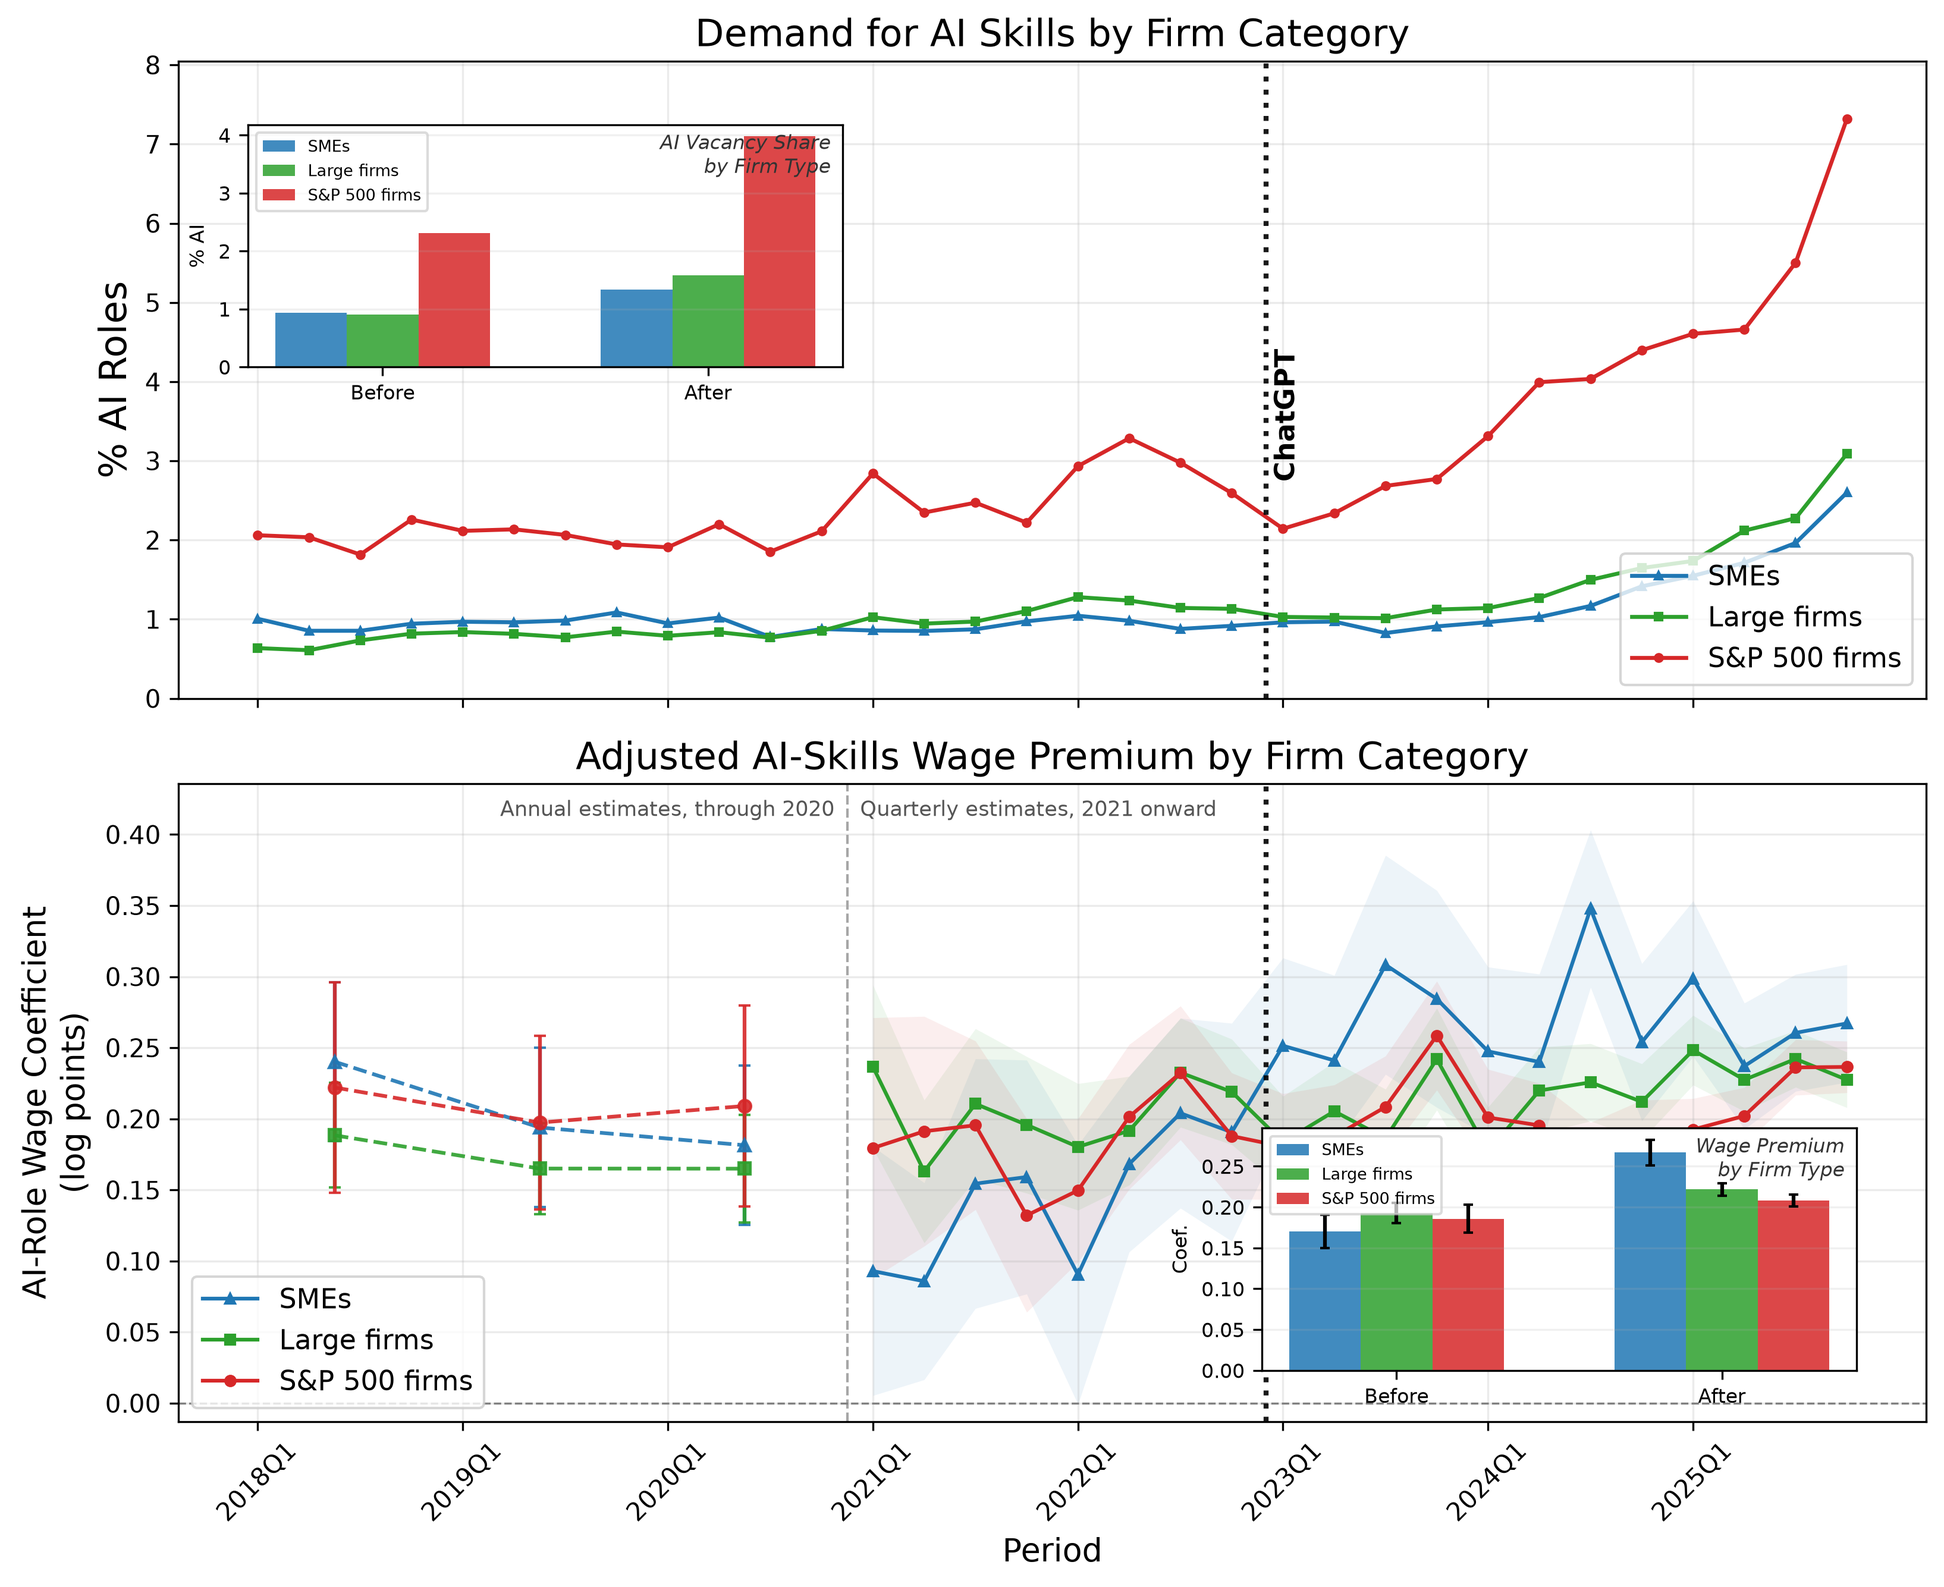
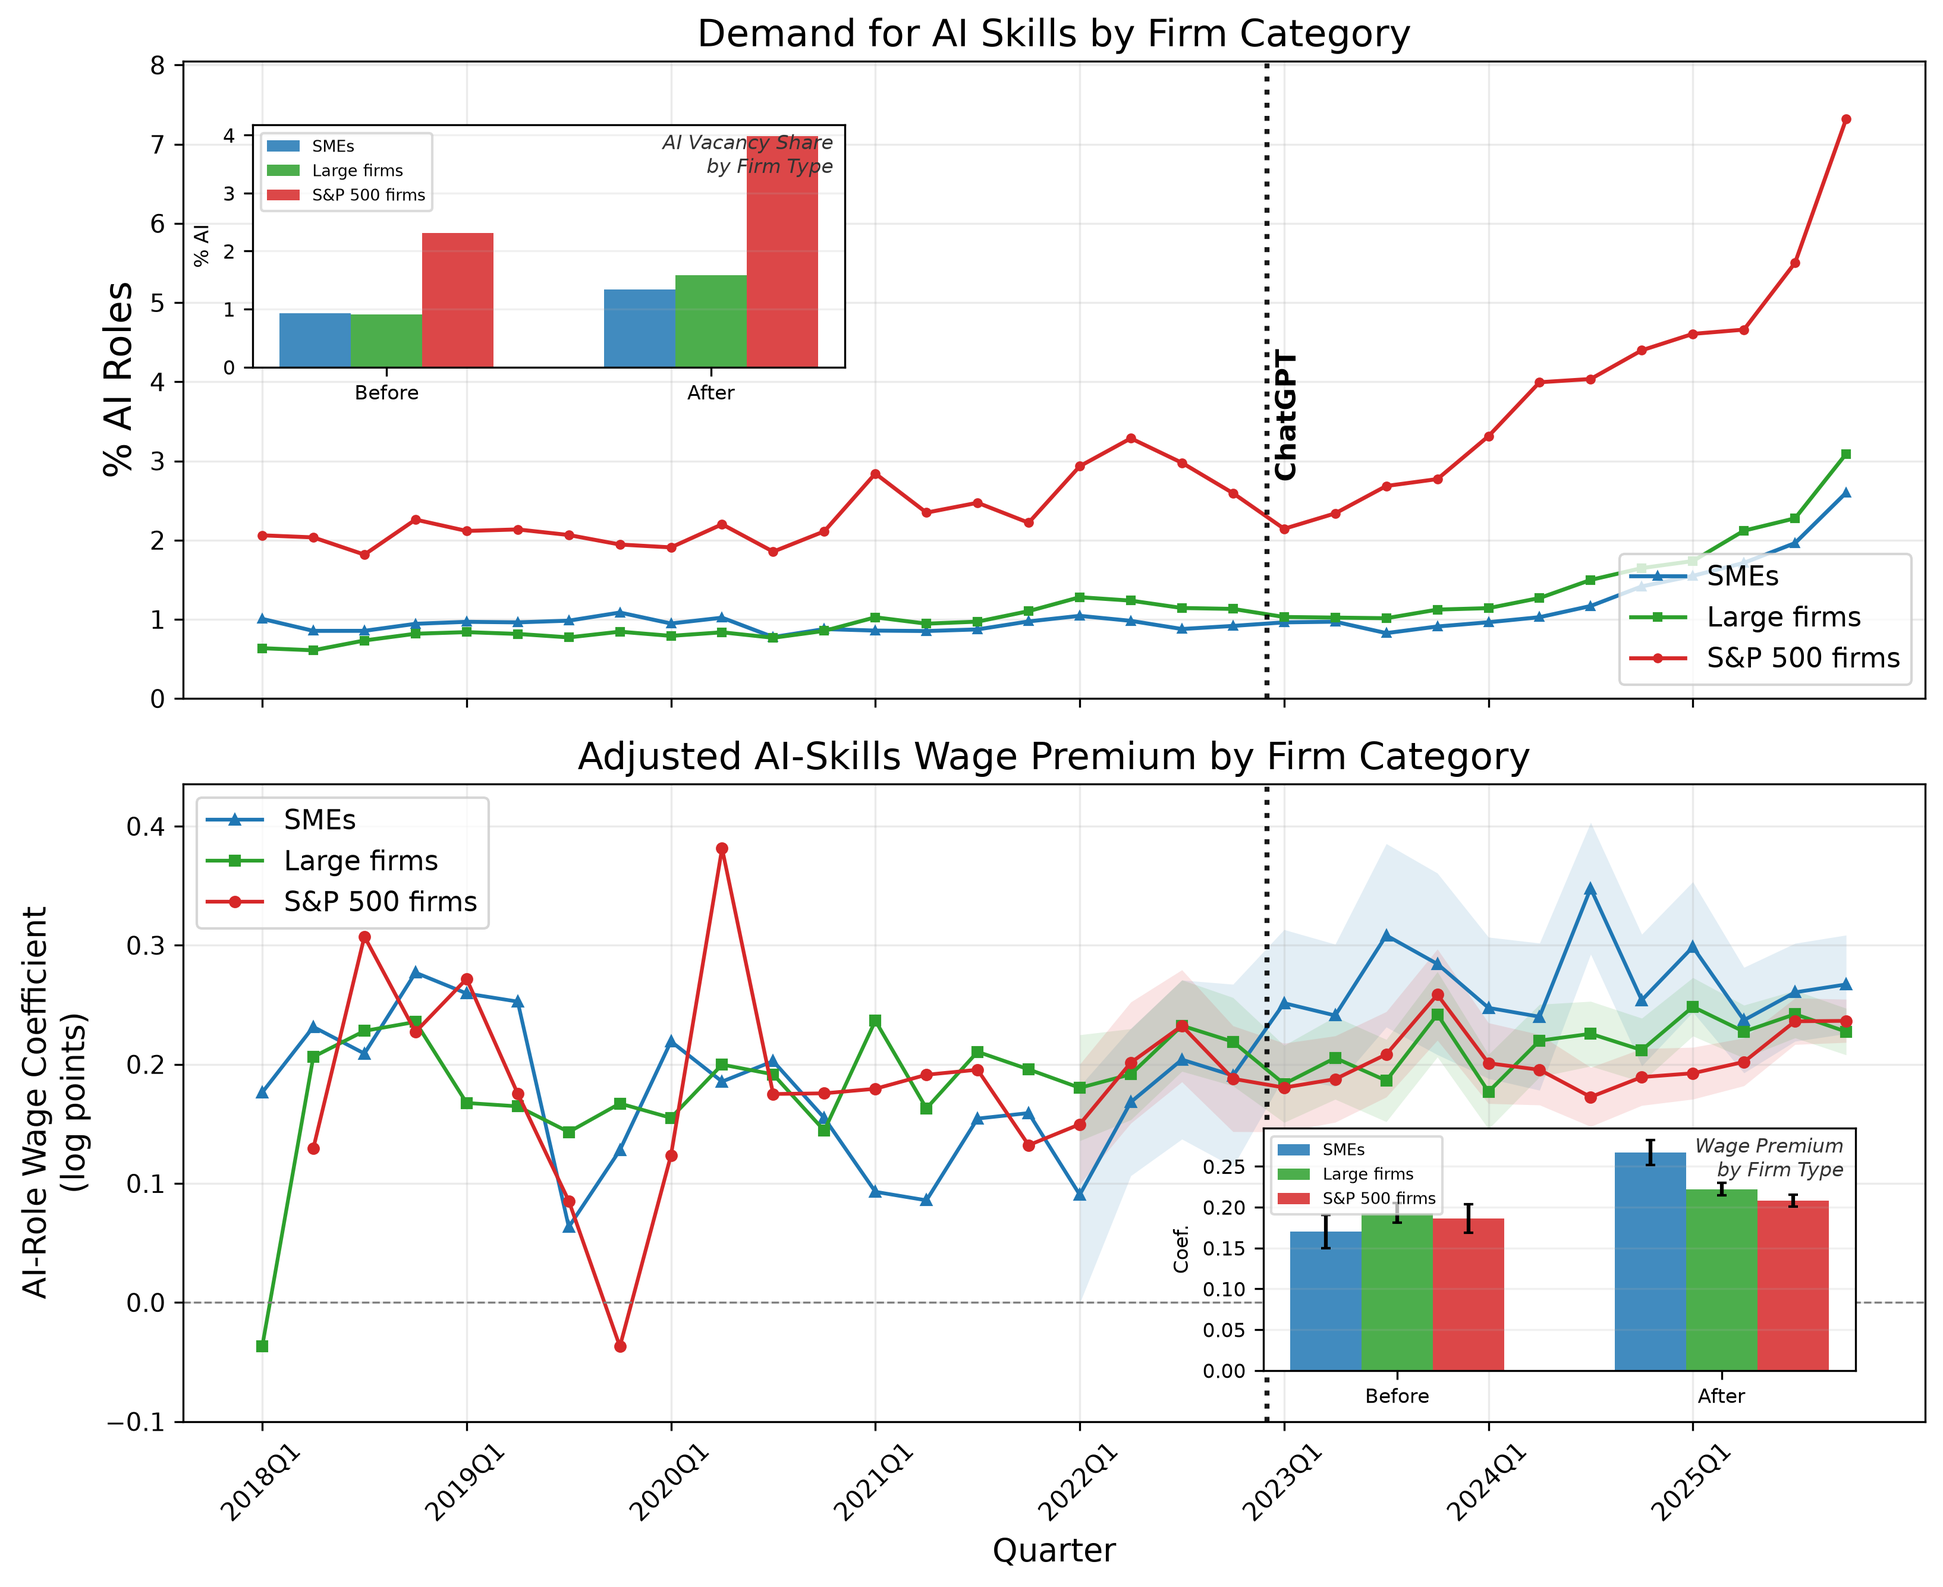
Preserve both Figure 1 frequency variants
Keep the all-quarterly firm-category figure at its existing filename and write the annual-through-2020/quarterly-from-2021 comparison to a separate mixed-frequency PNG.

Update both the full descriptive workflow and cached-table plotting script to regenerate the two alternatives from the same estimates, and document both outputs for manuscript review.

diff --git a/analysis/descriptive_analysis.py b/analysis/descriptive_analysis.py
@@ -23,7 +23,9 @@ sys.path.append(str(Path(__file__).parent.parent / "src"))
 from package_files.config_utils import get_processed_dir, get_repo_root
 from package_files.firm_size import FIRM_SIZE_CUTOFF
 from package_files.firm_category_figure import (
+    draw_quarterly_wage_series,
     draw_mixed_wage_series,
+    set_quarterly_wage_ylim,
     set_zero_inclusive_wage_ylim,
 )
 
@@ -1085,69 +1087,94 @@ def generate_ai_roles_over_time_by_firm_category_plot(usdf, annual_wage_betas=No
         index=False,
     )
 
-    fig, (demand_ax, wage_ax) = plt.subplots(
-        nrows=2,
-        ncols=1,
-        figsize=(11, 9),
-        sharex=True,
-    )
     quarter_positions = np.arange(len(demand_wide.index))
     quarter_position_map = {quarter: idx for idx, quarter in enumerate(demand_wide.index)}
-
-    for category in FIRM_CATEGORY_ORDER:
-        if category not in demand_wide:
-            continue
-        demand_ax.plot(
-            quarter_positions,
-            demand_wide[category],
-            marker=FIRM_CATEGORY_MARKERS[category],
-            markersize=3,
-            linewidth=1.6,
-            label=category,
-            color=FIRM_CATEGORY_COLORS[category],
-        )
-
-    demand_ax.set_ylabel("% AI Roles", fontsize=15)
-    demand_ax.set_title("Demand for AI Skills by Firm Category", fontsize=15)
-    add_genai_quarter_line(demand_ax, demand_wide.index)
-    set_zero_based_ylim(demand_ax, demand_wide.stack())
-    demand_ax.legend(title=None, fontsize=11, loc="lower right")
-    demand_ax.grid(alpha=0.25)
-    add_firm_category_demand_inset(demand_ax, category_df)
-
     if annual_wage_betas is None:
         annual_wage_betas = estimate_annual_ai_wage_premium_by_firm_category(
             category_df
         )
-    annual_plotted, quarterly_plotted = draw_mixed_wage_series(
-        wage_ax,
-        annual_wage_betas,
-        wage_betas,
-        quarter_position_map,
-        FIRM_CATEGORY_ORDER,
-        FIRM_CATEGORY_COLORS,
-        FIRM_CATEGORY_MARKERS,
-    )
 
-    wage_ax.axhline(0, color="gray", linewidth=0.8, linestyle="--")
-    add_genai_quarter_line(wage_ax, demand_wide.index)
-    set_zero_inclusive_wage_ylim(wage_ax, annual_plotted, quarterly_plotted)
-    wage_ax.set_ylabel("AI-Role Wage Coefficient\n(log points)", fontsize=13)
-    wage_ax.set_title("Adjusted AI-Skills Wage Premium by Firm Category", fontsize=15)
-    wage_ax.grid(alpha=0.25)
-    wage_ax.legend(title=None, fontsize=11, loc="lower left")
-    add_firm_category_wage_inset(wage_ax, category_df)
+    for mixed_frequency in (False, True):
+        fig, (demand_ax, wage_ax) = plt.subplots(
+            nrows=2,
+            ncols=1,
+            figsize=(11, 9),
+            sharex=True,
+        )
+        for category in FIRM_CATEGORY_ORDER:
+            if category not in demand_wide:
+                continue
+            demand_ax.plot(
+                quarter_positions,
+                demand_wide[category],
+                marker=FIRM_CATEGORY_MARKERS[category],
+                markersize=3,
+                linewidth=1.6,
+                label=category,
+                color=FIRM_CATEGORY_COLORS[category],
+            )
 
-    tick_positions = list(range(0, len(demand_wide.index), 4))
-    wage_ax.set_xticks(tick_positions)
-    wage_ax.set_xticklabels([str(demand_wide.index[idx]) for idx in tick_positions], rotation=45)
-    wage_ax.set_xlabel("Period", fontsize=13)
+        demand_ax.set_ylabel("% AI Roles", fontsize=15)
+        demand_ax.set_title("Demand for AI Skills by Firm Category", fontsize=15)
+        add_genai_quarter_line(demand_ax, demand_wide.index)
+        set_zero_based_ylim(demand_ax, demand_wide.stack())
+        demand_ax.legend(title=None, fontsize=11, loc="lower right")
+        demand_ax.grid(alpha=0.25)
+        add_firm_category_demand_inset(demand_ax, category_df)
 
-    plt.tight_layout()
-    output_path = FIRM_CATEGORY_DIR / "figure1_ai_demand_wage_beta_by_firm_category.png"
-    plt.savefig(output_path, bbox_inches="tight", dpi=300)
-    plt.close()
-    print(f"Saved: {output_path}")
+        if mixed_frequency:
+            annual_plotted, quarterly_plotted = draw_mixed_wage_series(
+                wage_ax,
+                annual_wage_betas,
+                wage_betas,
+                quarter_position_map,
+                FIRM_CATEGORY_ORDER,
+                FIRM_CATEGORY_COLORS,
+                FIRM_CATEGORY_MARKERS,
+            )
+            set_zero_inclusive_wage_ylim(
+                wage_ax,
+                annual_plotted,
+                quarterly_plotted,
+            )
+            wage_ax.legend(title=None, fontsize=11, loc="lower left")
+            wage_ax.set_xlabel("Period", fontsize=13)
+            output_name = (
+                "figure1_ai_demand_wage_beta_by_firm_category_mixed_frequency.png"
+            )
+        else:
+            quarterly_plotted = draw_quarterly_wage_series(
+                wage_ax,
+                wage_betas,
+                quarter_position_map,
+                FIRM_CATEGORY_ORDER,
+                FIRM_CATEGORY_COLORS,
+                FIRM_CATEGORY_MARKERS,
+            )
+            set_quarterly_wage_ylim(wage_ax, quarterly_plotted)
+            wage_ax.legend(title=None, fontsize=11, loc="upper left")
+            wage_ax.set_xlabel("Quarter", fontsize=13)
+            output_name = "figure1_ai_demand_wage_beta_by_firm_category.png"
+
+        wage_ax.axhline(0, color="gray", linewidth=0.8, linestyle="--")
+        add_genai_quarter_line(wage_ax, demand_wide.index)
+        wage_ax.set_ylabel("AI-Role Wage Coefficient\n(log points)", fontsize=13)
+        wage_ax.set_title("Adjusted AI-Skills Wage Premium by Firm Category", fontsize=15)
+        wage_ax.grid(alpha=0.25)
+        add_firm_category_wage_inset(wage_ax, category_df)
+
+        tick_positions = list(range(0, len(demand_wide.index), 4))
+        wage_ax.set_xticks(tick_positions)
+        wage_ax.set_xticklabels(
+            [str(demand_wide.index[idx]) for idx in tick_positions],
+            rotation=45,
+        )
+
+        plt.tight_layout()
+        output_path = FIRM_CATEGORY_DIR / output_name
+        plt.savefig(output_path, bbox_inches="tight", dpi=300)
+        plt.close()
+        print(f"Saved: {output_path}")
 
 
 def count_benefits(data, benefit, period):

diff --git a/scripts/plot_firm_category_figure1.py b/scripts/plot_firm_category_figure1.py
@@ -23,7 +23,9 @@ sys.path.append(str(Path(__file__).parent.parent / "src"))
 from package_files.config_utils import get_processed_dir, get_repo_root
 from package_files.firm_size import FIRM_SIZE_CUTOFF
 from package_files.firm_category_figure import (
+    draw_quarterly_wage_series,
     draw_mixed_wage_series,
+    set_quarterly_wage_ylim,
     set_zero_inclusive_wage_ylim,
 )
 
@@ -275,25 +277,8 @@ def load_demand_wide():
     )
 
 
-def main():
-    # --- Load pre-computed descriptive tables ---
-    demand_wide = load_demand_wide()
-
-    # --- Load pre-computed wage betas ---
-    betas_path = TABLES_DIR / "quarterly_ai_wage_betas_by_firm_category.csv"
-    if not betas_path.exists():
-        raise FileNotFoundError(f"Wage betas CSV not found: {betas_path}")
-    wage_betas = pd.read_csv(betas_path)
-    wage_betas["QUARTER"] = wage_betas["QUARTER"].apply(lambda x: pd.Period(x, freq="Q"))
-    print(f"Loaded {len(wage_betas)} wage beta rows from {betas_path}")
-
-    annual_path = TABLES_DIR / "annual_ai_wage_premium_by_firm_category.csv"
-    if not annual_path.exists():
-        raise FileNotFoundError(f"Annual wage betas CSV not found: {annual_path}")
-    annual_betas = pd.read_csv(annual_path)
-    print(f"Loaded {len(annual_betas)} annual wage beta rows from {annual_path}")
-
-    # --- Plot ---
+def render_figure(demand_wide, wage_betas, annual_betas, mixed_frequency):
+    """Render either the original quarterly or comparison mixed-frequency figure."""
     fig, (demand_ax, wage_ax) = plt.subplots(nrows=2, ncols=1, figsize=(11, 9), sharex=True)
     quarter_positions = np.arange(len(demand_wide.index))
     quarter_position_map = {q: i for i, q in enumerate(demand_wide.index)}
@@ -319,36 +304,71 @@ def main():
     demand_ax.grid(alpha=0.25)
     add_demand_inset(demand_ax, demand_wide)
 
-    annual_plotted, quarterly_plotted = draw_mixed_wage_series(
-        wage_ax,
-        annual_betas,
-        wage_betas,
-        quarter_position_map,
-        FIRM_CATEGORY_ORDER,
-        FIRM_CATEGORY_COLORS,
-        FIRM_CATEGORY_MARKERS,
-    )
+    if mixed_frequency:
+        annual_plotted, quarterly_plotted = draw_mixed_wage_series(
+            wage_ax,
+            annual_betas,
+            wage_betas,
+            quarter_position_map,
+            FIRM_CATEGORY_ORDER,
+            FIRM_CATEGORY_COLORS,
+            FIRM_CATEGORY_MARKERS,
+        )
+        set_zero_inclusive_wage_ylim(wage_ax, annual_plotted, quarterly_plotted)
+        wage_ax.legend(title=None, fontsize=11, loc="lower left")
+        wage_ax.set_xlabel("Period", fontsize=13)
+        output_name = "figure1_ai_demand_wage_beta_by_firm_category_mixed_frequency.png"
+    else:
+        quarterly_plotted = draw_quarterly_wage_series(
+            wage_ax,
+            wage_betas,
+            quarter_position_map,
+            FIRM_CATEGORY_ORDER,
+            FIRM_CATEGORY_COLORS,
+            FIRM_CATEGORY_MARKERS,
+        )
+        set_quarterly_wage_ylim(wage_ax, quarterly_plotted)
+        wage_ax.legend(title=None, fontsize=11, loc="upper left")
+        wage_ax.set_xlabel("Quarter", fontsize=13)
+        output_name = "figure1_ai_demand_wage_beta_by_firm_category.png"
 
     wage_ax.axhline(0, color="gray", linewidth=0.8, linestyle="--")
     add_chatgpt_quarter_line(wage_ax, demand_wide.index)
-    set_zero_inclusive_wage_ylim(wage_ax, annual_plotted, quarterly_plotted)
     wage_ax.set_ylabel("AI-Role Wage Coefficient\n(log points)", fontsize=13)
     wage_ax.set_title("Adjusted AI-Skills Wage Premium by Firm Category", fontsize=15)
     wage_ax.grid(alpha=0.25)
-    wage_ax.legend(title=None, fontsize=11, loc="lower left")
     add_wage_inset(wage_ax, wage_betas)
 
     tick_positions = list(range(0, len(demand_wide.index), 4))
     wage_ax.set_xticks(tick_positions)
     wage_ax.set_xticklabels([str(demand_wide.index[i]) for i in tick_positions], rotation=45)
-    wage_ax.set_xlabel("Period", fontsize=13)
 
     plt.tight_layout()
     FIG_DIR.mkdir(parents=True, exist_ok=True)
-    output_path = FIG_DIR / "figure1_ai_demand_wage_beta_by_firm_category.png"
+    output_path = FIG_DIR / output_name
     plt.savefig(output_path, bbox_inches="tight", dpi=300)
     plt.close()
     print(f"Saved: {output_path}")
+
+
+def main():
+    demand_wide = load_demand_wide()
+
+    betas_path = TABLES_DIR / "quarterly_ai_wage_betas_by_firm_category.csv"
+    if not betas_path.exists():
+        raise FileNotFoundError(f"Wage betas CSV not found: {betas_path}")
+    wage_betas = pd.read_csv(betas_path)
+    wage_betas["QUARTER"] = wage_betas["QUARTER"].apply(lambda x: pd.Period(x, freq="Q"))
+    print(f"Loaded {len(wage_betas)} wage beta rows from {betas_path}")
+
+    annual_path = TABLES_DIR / "annual_ai_wage_premium_by_firm_category.csv"
+    if not annual_path.exists():
+        raise FileNotFoundError(f"Annual wage betas CSV not found: {annual_path}")
+    annual_betas = pd.read_csv(annual_path)
+    print(f"Loaded {len(annual_betas)} annual wage beta rows from {annual_path}")
+
+    render_figure(demand_wide, wage_betas, annual_betas, mixed_frequency=False)
+    render_figure(demand_wide, wage_betas, annual_betas, mixed_frequency=True)
 
 
 if __name__ == "__main__":

diff --git a/src/package_files/firm_category_figure.py b/src/package_files/firm_category_figure.py
@@ -8,6 +8,54 @@ ANNUAL_WAGE_END_YEAR = 2020
 QUARTERLY_WAGE_START_YEAR = 2021
 
 
+def draw_quarterly_wage_series(
+    ax,
+    quarterly_betas,
+    quarter_position_map,
+    categories,
+    colors,
+    markers,
+    confidence_bands_from="2022Q1",
+):
+    """Draw the original all-quarterly wage series."""
+    quarterly = quarterly_betas.copy()
+    if not isinstance(quarterly["QUARTER"].dtype, pd.PeriodDtype):
+        quarterly["QUARTER"] = quarterly["QUARTER"].map(
+            lambda value: pd.Period(value, freq="Q")
+        )
+    if "status" in quarterly.columns:
+        quarterly = quarterly[quarterly["status"] == "ok"].copy()
+    quarterly["x"] = quarterly["QUARTER"].map(quarter_position_map)
+    quarterly = quarterly.dropna(subset=["x"])
+    band_start = pd.Period(confidence_bands_from, freq="Q")
+
+    for category in categories:
+        line = quarterly[quarterly["FIRM_CATEGORY"] == category].sort_values(
+            "QUARTER"
+        )
+        if line.empty:
+            continue
+        band = line[line["QUARTER"] >= band_start]
+        ax.fill_between(
+            band["x"],
+            band["lower_ci"],
+            band["upper_ci"],
+            color=colors[category],
+            alpha=0.12,
+            linewidth=0,
+        )
+        ax.plot(
+            line["x"],
+            line["ai_role_beta"],
+            marker=markers[category],
+            markersize=4,
+            linewidth=1.5,
+            color=colors[category],
+            label=category,
+        )
+    return quarterly
+
+
 def prepare_mixed_wage_series(annual_betas, quarterly_betas, quarter_position_map):
     """Return annual pre-2021 and quarterly post-2020 estimates on one x-axis."""
     annual = annual_betas.copy()
@@ -160,3 +208,18 @@ def set_zero_inclusive_wage_ylim(ax, annual, quarterly, lower_pad=0.03, upper_pa
     upper = max(0.0, float(values.max()))
     span = max(upper - lower, 0.02)
     ax.set_ylim(lower - lower_pad * span, upper + upper_pad * span)
+
+
+def set_quarterly_wage_ylim(ax, quarterly, confidence_bands_from="2022Q1"):
+    """Reproduce the original quarterly coefficient scale."""
+    band_start = pd.Period(confidence_bands_from, freq="Q")
+    band = quarterly[quarterly["QUARTER"] >= band_start]
+    values = pd.concat(
+        [quarterly["ai_role_beta"], band["lower_ci"], band["upper_ci"]],
+        ignore_index=True,
+    ).dropna()
+    if values.empty:
+        return
+    limit = max(float(values.abs().max()) * 1.08, 0.02)
+    ax.set_ylim(-limit, limit)
+    ax.set_ylim(bottom=-0.1)

diff --git a/README.md b/README.md
@@ -367,7 +367,8 @@ Additional reproducibility tooling:
 - **Firm-category through-2022/post-2022 H1 logit plot**: `results/figures_2026/regression/firm_category_period_ai_role_logit_coefficients.png`
 - **Structured-benefit coefficients plot**: `results/figures_2026/regression/structured_benefits_ai_role_coef.png`
 - **Figure 1 — AI demand and wage coefficients**: `results/figures_2026/descriptive/figure1_ai_demand_wage_beta.png`
-- **Figure 1 by firm category**: `results/figures_2026/descriptive/firm_categories/figure1_ai_demand_wage_beta_by_firm_category.png`
+- **Figure 1 by firm category (all quarterly)**: `results/figures_2026/descriptive/firm_categories/figure1_ai_demand_wage_beta_by_firm_category.png`
+- **Figure 1 by firm category (annual through 2020, quarterly from 2021)**: `results/figures_2026/descriptive/firm_categories/figure1_ai_demand_wage_beta_by_firm_category_mixed_frequency.png`
 - **Sample composition by firm category**: `results/figures_2026/descriptive/firm_categories/firm_category_sample_sizes.png`
 - **AI wage premium by firm category (pooled)**: `results/figures_2026/descriptive/firm_categories/ai_wage_premium_by_firm_category.png`
 - **AI wage premium by firm category (annual)**: `results/figures_2026/descriptive/firm_categories/ai_wage_premium_by_firm_category_annual.png`
